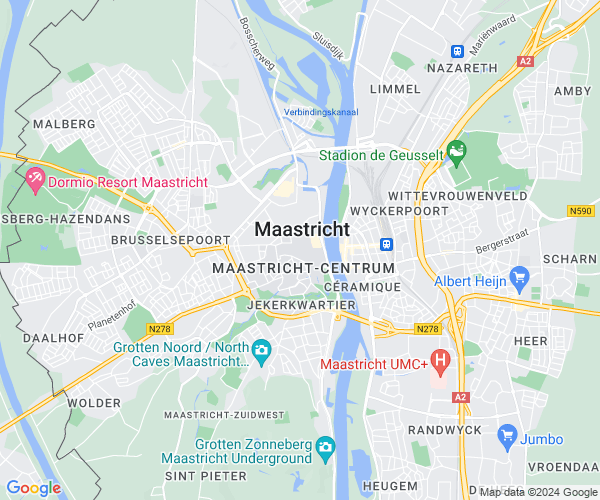
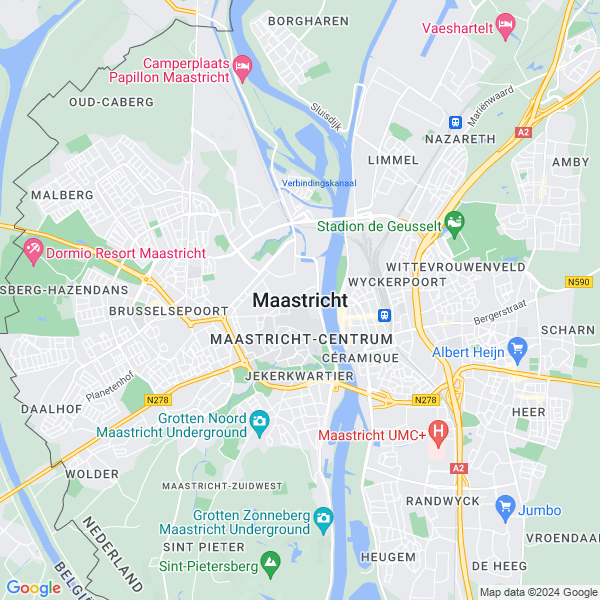
Updated AccessibilityDrawer

diff --git a/src/java/GUI/AccessibilityDisplayer.java b/src/java/GUI/AccessibilityDisplayer.java
@@ -1,38 +1,38 @@
 package src.java.GUI;
 
+import java.awt.BasicStroke;
+import java.awt.Color;
+import java.awt.FlowLayout;
+import java.awt.Graphics2D;
+import java.awt.RenderingHints;
+import java.awt.Stroke;
+import java.awt.event.ActionListener;
+import java.awt.image.BufferedImage;
+import java.io.File;
+import java.io.IOException;
+import java.util.ArrayList;
+import java.util.List;
+
 import javax.imageio.ImageIO;
 import javax.swing.ImageIcon;
 import javax.swing.JButton;
 import javax.swing.JFrame;
 import javax.swing.JLabel;
-import javax.swing.JOptionPane;
 import javax.swing.JPanel;
 
-import javafx.event.ActionEvent;
 import javafx.scene.image.Image;
-import src.java.Draw.DrawZipcodes;
-
-import java.awt.FlowLayout;
-import java.awt.Graphics;
-import java.awt.Graphics2D;
-import java.awt.GridLayout;
-import java.awt.event.ActionListener;
-import java.awt.image.BufferedImage;
-import java.net.MalformedURLException;
-import java.net.URL;
-import java.util.ArrayList;
-import java.util.List;
 
 public class AccessibilityDisplayer extends JFrame implements ActionListener{
-    private double CENTER_LATITUDE = 50.866825678462234;
-    private double CENTER_LONGITUDE = 5.65494508021394;
-    final int R = 6371;
-    private static final String API_KEY = "AIzaSyDnJH0pu5NzqH0b6GjiPyTDfdkBDugYw6w";
-    private static int scale = 1;
-    private static int zoomLevel = 14;
+    private static final double MAP_WIDTH = 600; // Width of your map image
+    private static final double MAP_HEIGHT = 600;
+    private double CENTER_LATITUDE = 50.851368;
+    private double CENTER_LONGITUDE = 5.690973;
+    private static int zoomLevel = 13;
     private static JButton button;
+    private JPanel panel;
+    static double offset = 268435456; 
+    static double radius = offset / Math.PI;
     private JFrame frame;
-    private List<ImageIcon> images;
 
     public AccessibilityDisplayer() {
         frame = new JFrame();
@@ -51,12 +51,100 @@ public class AccessibilityDisplayer extends JFrame implements ActionListener{
         frame.setVisible(true);
     }
 
-    public void drawPoints() {
+    public void getCircle() throws IOException {
+        Data.getData();
+        ArrayList<String> zipCodes = Data.getZipCodes();
+        JPanel panel = new JPanel(new FlowLayout(FlowLayout.LEFT, 0, 0));
+        frame.getContentPane().removeAll();
+        frame.add(button);
+        frame.add(panel);
+        BufferedImage bufferedImage =  ImageIO.read(new File("./staticmap.png"));
+        Graphics2D g = (Graphics2D) bufferedImage.getGraphics();
+        g.setRenderingHint(RenderingHints.KEY_ANTIALIASING, RenderingHints.VALUE_ANTIALIAS_ON);
+        Stroke originalStroke = g.getStroke();
+        g.setStroke(new BasicStroke(5));
+        g.setColor(new Color(255, 0, 0, 64));
+        g.setStroke(originalStroke);
+        ImageIcon imageIcon = null;
+        JLabel label = new JLabel(imageIcon);
+        long startTime = System.currentTimeMillis();
+    
+        for (int index = 0; index < zipCodes.size(); index++) {
+            if (index % 100 == 0) {
+                System.out.println(index);
+                imageIcon = new ImageIcon(bufferedImage);
+                label.setIcon(imageIcon);
+                panel.add(label);
+                frame.setVisible(true); 
+                java.awt.Image image = imageIcon.getImage();
+                bufferedImage = (BufferedImage) image;
+                g = (Graphics2D) bufferedImage.getGraphics();
+                g.setRenderingHint(RenderingHints.KEY_ANTIALIASING, RenderingHints.VALUE_ANTIALIAS_ON);
+                originalStroke = g.getStroke();
+                g.setStroke(new BasicStroke(5));
+                g.setColor(new Color(255, 0, 0, 64));
+                g.setStroke(originalStroke);
+            }
+            Place coordinatesZipCode = new Place(zipCodes.get(index));
+            int[] Xy = adjust(coordinatesZipCode.getLongitude(), coordinatesZipCode.getLatitude(), CENTER_LONGITUDE,CENTER_LATITUDE,zoomLevel);
+            // int[] Xy = adjust(50.83702537886311, 5.69366003053462,CENTER_LATITUDE, CENTER_LONGITUDE,zoomLevel);
+            g.fillOval((int)(Xy[0] + MAP_WIDTH/2 -5), (int) (Xy[1] + MAP_HEIGHT/2 -5), 10, 10);
+        }
 
+        long endTime = System.currentTimeMillis();
+        long duration = (endTime - startTime); // Calculate the duration in milliseconds
+        System.out.println("Execution time in milliseconds: " + duration/1000);
+        
+        imageIcon = new ImageIcon(bufferedImage);
+        label.setIcon(imageIcon);
+        panel.add(label);
+        frame.setVisible(true);
     }
+
+    // X,Y ... location in degrees
+    // xcenter,ycenter ... center of the map in degrees (same value as in 
+    // the google static maps URL)
+    // zoomlevel (same value as in the google static maps URL)
+    // xr, yr and the returned Point ... position of X,Y in pixels relative 
+    // to the center of the bitmap
+
+    //https://stackoverflow.com/questions/23898964/getting-pixel-coordinated-from-google-static-maps
+    public int[] adjust(double X, double Y, double xcenter, double ycenter, int zoomlevel) {
+        int xr = (lToX(X) - lToX(xcenter)) >> (21 - zoomlevel);
+        int yr = (lToY(Y) - lToY(ycenter)) >> (21 - zoomlevel);
+        return new int[]{xr, yr};
+    }
+
+    public static int lToX(double x) {
+        return (int)(Math.round(offset + radius * x * Math.PI / 180));
+    }
+
+    public static int lToY(double y) {
+        return (int)(Math.round(offset - radius * Math.log((1 + Math.sin(y * Math.PI / 180)) / (1 - Math.sin(y * Math.PI / 180))) / 2));
+    }
+    
+    
 
     public static void main(String[] args) {
         AccessibilityDisplayer displayer = new AccessibilityDisplayer();
+        try {
+            displayer.getCircle();
+        } catch (IOException e) {
+            e.printStackTrace();
+        }
+
+        button.addActionListener(new ActionListener() {
+
+            @Override
+            public void actionPerformed(java.awt.event.ActionEvent e) {
+                try {
+                    displayer.getCircle();
+                } catch (IOException e1) {
+                    e1.printStackTrace();
+                }
+            }
+
+        });
     }
     @Override
     public void actionPerformed(java.awt.event.ActionEvent e) {

diff --git a/src/java/GUI/AccessibilityDisplayerOld.java b/src/java/GUI/AccessibilityDisplayerOld.java
@@ -1,29 +1,21 @@
 package src.java.GUI;
 
-import javax.imageio.ImageIO;
-import javax.swing.ImageIcon;
-import javax.swing.JButton;
-import javax.swing.JFrame;
-import javax.swing.JLabel;
-import javax.swing.JOptionPane;
-import javax.swing.JPanel;
-
-import javafx.event.ActionEvent;
-import javafx.scene.image.Image;
-import src.java.Draw.DrawZipcodes;
-
 import java.awt.FlowLayout;
-import java.awt.Graphics;
-import java.awt.Graphics2D;
-import java.awt.GridLayout;
 import java.awt.event.ActionListener;
-import java.awt.image.BufferedImage;
 import java.net.MalformedURLException;
 import java.net.URL;
 import java.util.ArrayList;
 import java.util.List;
 
-public class AccessibilityDisplayerOld extends JFrame implements ActionListener{
+import javax.swing.ImageIcon;
+import javax.swing.JButton;
+import javax.swing.JFrame;
+import javax.swing.JLabel;
+import javax.swing.JPanel;
+
+import src.java.Draw.DrawZipcodes;
+
+public class AccessibilityDisplayerOld extends JFrame implements ActionListener {
     private double CENTER_LATITUDE = 50.866825678462234;
     private double CENTER_LONGITUDE = 5.65494508021394;
     final int R = 6371;
@@ -61,7 +53,8 @@ public class AccessibilityDisplayerOld extends JFrame implements ActionListener{
 
     private double calculateLatIncrement(double currentLat, double zoom) {
         double metresAtEquatorPerTilePx = 156543.03392 / Math.pow(2, zoom);
-        return (DEGREES_PER_METER_AT_EQUATOR * Math.cos(currentLat * Math.PI / 180) * metresAtEquatorPerTilePx * TILE_PX) * MULTIPLIER;
+        return (DEGREES_PER_METER_AT_EQUATOR * Math.cos(currentLat * Math.PI / 180) * metresAtEquatorPerTilePx
+                * TILE_PX) * MULTIPLIER;
     }
 
     private double calculateLonIncrement(double zoom) {
@@ -80,7 +73,7 @@ public class AccessibilityDisplayerOld extends JFrame implements ActionListener{
         double lonIncrement = 0;
         double increment = 0.0351;
         List<ImageIcon> images = new ArrayList<ImageIcon>();
-        for (int index = 0; index < 601; index+= 200) {
+        for (int index = 0; index < 601; index += 200) {
             startPos = index;
             if (2783 - index == 183) {
                 index = 2783;
@@ -88,12 +81,13 @@ public class AccessibilityDisplayerOld extends JFrame implements ActionListener{
                 endPosIncrement = 183;
             }
 
-            
-            StringBuilder mapUrlBuilder = createAPIStringBuilderTemplate(CENTER_LATITUDE + latIncrement, CENTER_LONGITUDE + lonIncrement);
+            StringBuilder mapUrlBuilder = createAPIStringBuilderTemplate(CENTER_LATITUDE + latIncrement,
+                    CENTER_LONGITUDE + lonIncrement);
             latIncrement += 0.0351;
             // latIncrement += calculateLatIncrement(CENTER_LATITUDE, zoomLevel);
             // lonIncrement += calculateLonIncrement(zoomLevel);
-            // mapUrlBuilder.append(drawer.drawOnZipCodes(startPos, index + endPosIncrement));
+            // mapUrlBuilder.append(drawer.drawOnZipCodes(startPos, index +
+            // endPosIncrement));
             // mapUrlBuilder.append("&style=feature:all|element:labels|visibility:off");
             mapUrlBuilder.append("&key=").append(API_KEY);
             System.out.println(mapUrlBuilder.toString());
@@ -102,11 +96,11 @@ public class AccessibilityDisplayerOld extends JFrame implements ActionListener{
                 ImageIcon imageIcon = new ImageIcon(url);
                 // JLabel label = new JLabel(imageIcon);
                 // frame.getContentPane().add(label);
-                // BufferedImage bufferedImage = new BufferedImage(imageIcon.getIconWidth(), imageIcon.getIconHeight(), BufferedImage.TYPE_INT_ARGB);
+                // BufferedImage bufferedImage = new BufferedImage(imageIcon.getIconWidth(),
+                // imageIcon.getIconHeight(), BufferedImage.TYPE_INT_ARGB);
                 // bufferedImage.getGraphics().drawImage(imageIcon.getImage(), 0, 0, null);
                 // BufferedImage cropped = bufferedImage.getSubimage(50,50, 300,300);
                 // imageIcon = new ImageIcon(cropped);
-
 
                 System.out.println("added image");
                 JLabel label = new JLabel(imageIcon);
